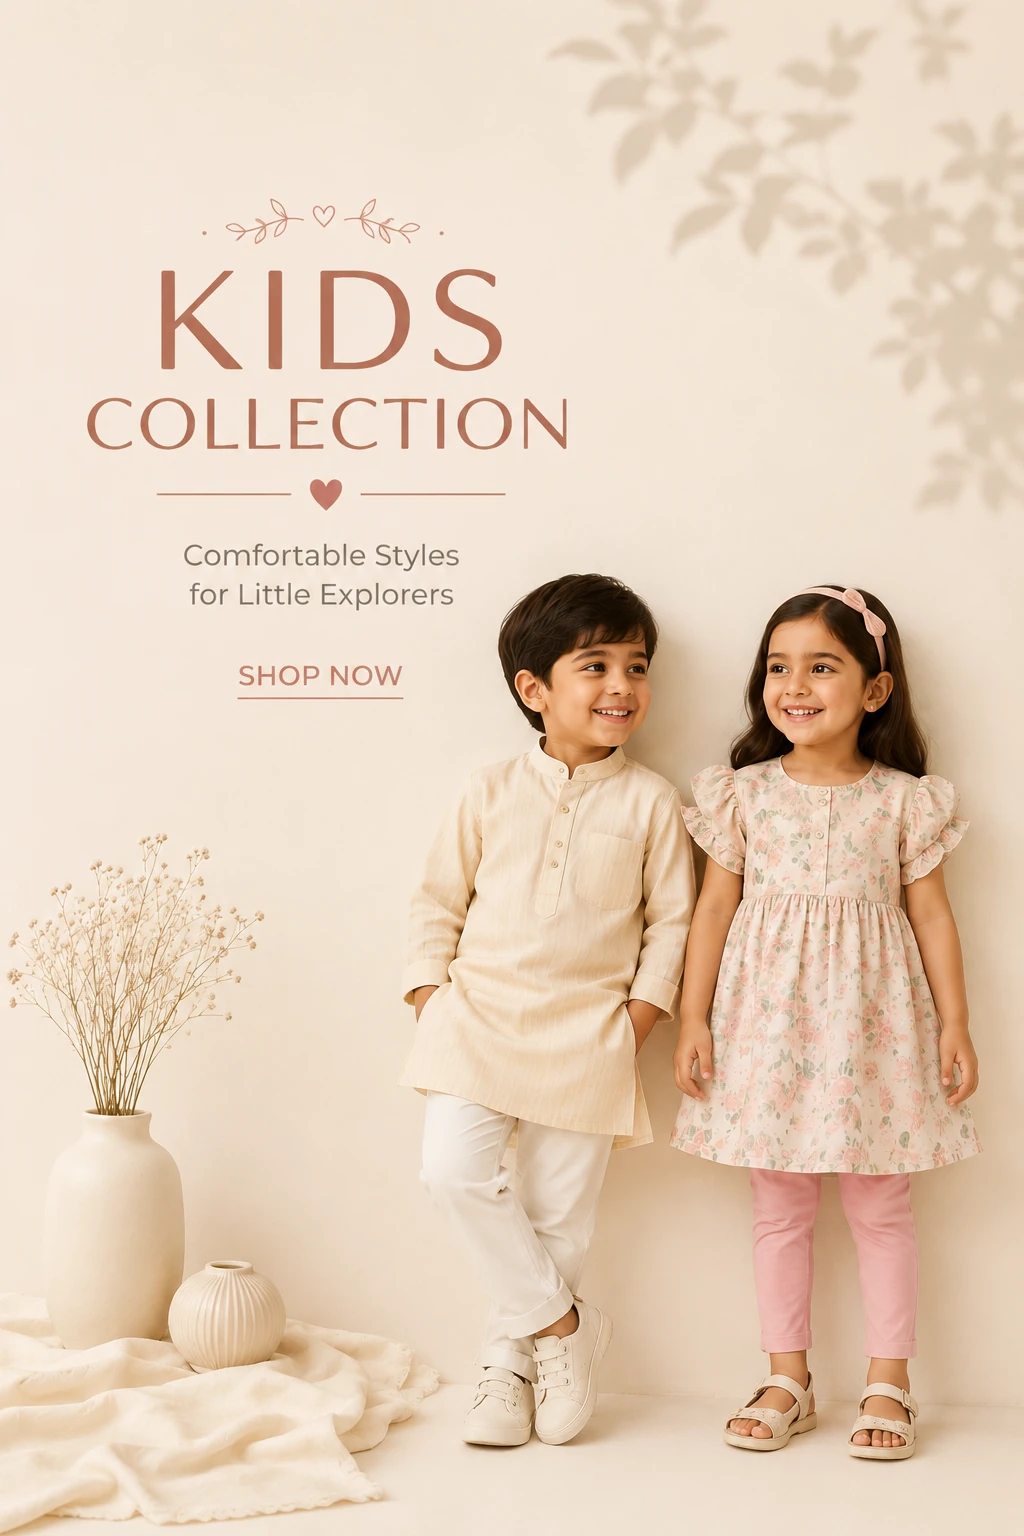
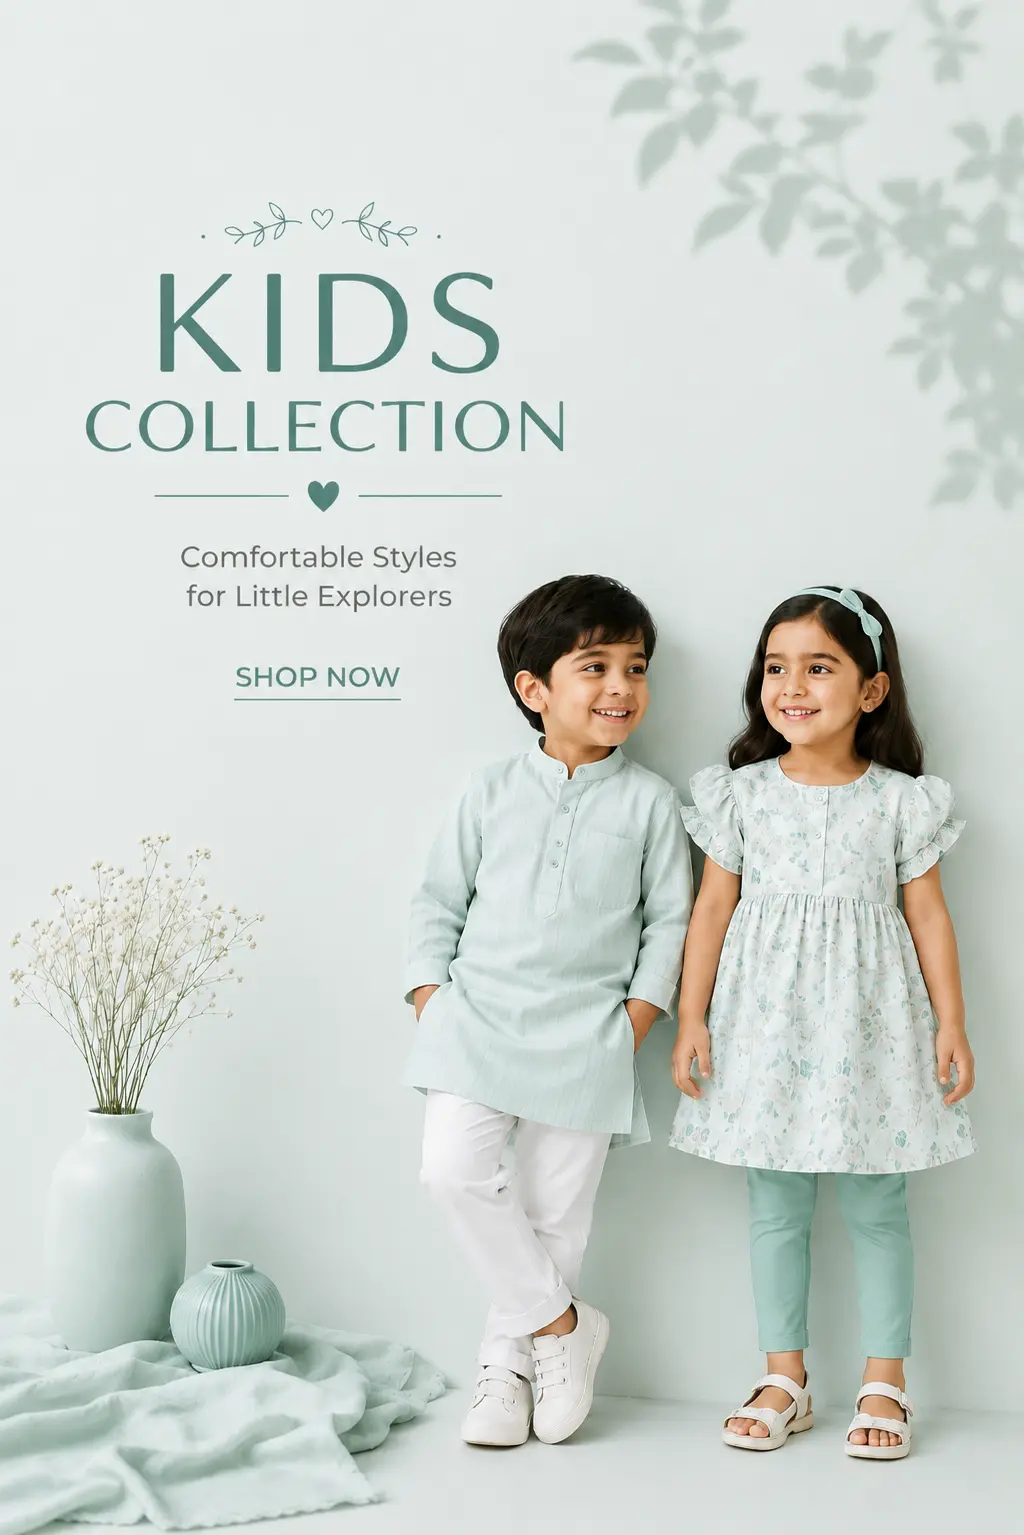
navbar color changed

diff --git a/css/style.css b/css/style.css
@@ -9,7 +9,7 @@
 @import url('https://fonts.googleapis.com/css2?family=Inter:wght@300;400;500;600;700&family=Montserrat:wght@100;200;300;400;500;600;700;800;900&family=Playfair+Display:ital,wght@0,400;0,500;0,600;0,700;1,400&display=swap');
 /* --- CSS variables --- */
 :root {
-  --color-primary: #8CBDBC;
+  --color-primary: #8cbdb6;
   --color-primary-hover: #6FAFAE;
   --color-secondary: #A9D6D5;
   --color-bg: #FCFEFE;
@@ -169,7 +169,7 @@ a:hover {
   box-shadow: 0 10px 20px rgba(0, 0, 0, 0.15);
 }
 .btn-view-all {
-  background-color: var(--color-heading);
+  background-color: var(--color-primary);
   color: var(--color-white) !important;
   border-radius: 8px;
   padding: 16px 40px;
@@ -230,21 +230,21 @@ body.announcement-hidden .announcement-bar {
   }
 }
 
-/* --- Always-White Fixed Navbar --- */
+/* --- Premium Branded Fixed Navbar --- */
 header {
   position: fixed;
   top: 40px; /* sits directly below the 40px announcement bar */
   left: 0;
   width: 100%;
   z-index: 1050;
-  background-color: #ffffff;
-  box-shadow: 0 1px 16px rgba(30, 41, 59, 0.06);
+  background-color: var(--color-primary);
+  box-shadow: 0 2px 12px rgba(140, 189, 188, 0.15);
   transition: box-shadow 0.3s ease, transform 0.45s cubic-bezier(0.4, 0, 0.2, 1);
   will-change: transform, box-shadow;
 }
 /* On scroll: compact navbar padding + stronger shadow only */
 header.scrolled {
-  box-shadow: var(--shadow-premium);
+  box-shadow: 0 8px 24px rgba(140, 189, 188, 0.2);
 }
 /* Moves up when announcement bar hides (first scroll > 50px) */
 body.announcement-hidden header {
@@ -274,7 +274,7 @@ header.scrolled .navbar {
   font-weight: 700;
   font-size: 1.8rem;
   letter-spacing: 1.5px;
-  color: var(--color-heading) !important;
+  color: var(--color-white) !important;
   display: flex;
   align-items: center;
   gap: 8px;
@@ -291,6 +291,33 @@ header.scrolled .navbar {
   color: var(--color-primary);
 }
 
+.navbar-logo-img {
+  height: 45px;
+  width: auto;
+  max-width: 180px;
+  object-fit: contain;
+  display: block;
+  transition: transform 0.3s ease;
+}
+
+.navbar-brand:hover .navbar-logo-img {
+  transform: scale(1.05);
+}
+
+@media (max-width: 991px) {
+  .navbar-logo-img {
+    height: 38px;
+    max-width: 140px;
+  }
+}
+
+@media (max-width: 576px) {
+  .navbar-logo-img {
+    height: 32px;
+    max-width: 120px;
+  }
+}
+
 .logo-dot {
   width: 12px;
   height: 12px;
@@ -303,7 +330,7 @@ header.scrolled .navbar {
   font-family: var(--font-body);
   font-weight: 500;
   font-size: 0.95rem;
-  color: var(--color-heading) !important;
+  color: var(--color-white) !important;
   padding: 8px 16px !important;
   position: relative;
   transition: var(--transition-fast);
@@ -315,7 +342,7 @@ header.scrolled .navbar {
   left: 16px;
   right: 16px;
   height: 2px;
-  background-color: var(--color-primary);
+  background-color: var(--color-white);
   transform: scaleX(0);
   transform-origin: right;
   transition: transform 0.3s ease;
@@ -488,7 +515,7 @@ header.scrolled .navbar {
   background: none;
   border: none;
   font-size: 1.25rem;
-  color: var(--color-heading);
+  color: var(--color-white);
   position: relative;
   padding: 6px;
   border-radius: 50%;
@@ -500,14 +527,14 @@ header.scrolled .navbar {
   transition: var(--transition-smooth);
 }
 .icon-btn:hover {
-  background-color: var(--color-bg-alt);
-  color: var(--color-primary);
+  background-color: rgba(255, 255, 255, 0.2);
+  color: var(--color-white);
 }
 .icon-badge {
   position: absolute;
   top: 2px;
   right: 2px;
-  background-color: var(--color-primary);
+  background-color: var(--color-sale-badge);
   color: var(--color-white);
   font-size: 0.68rem;
   font-family: var(--font-body);
@@ -518,7 +545,7 @@ header.scrolled .navbar {
   display: flex;
   align-items: center;
   justify-content: center;
-  border: 2px solid var(--color-bg);
+  border: 2px solid var(--color-primary);
 }
 
 /* Account Dropdown customization */
@@ -2812,7 +2839,7 @@ footer {
     border: none;
     padding: 0;
     font-size: 1.5rem;
-    color: var(--color-heading);
+    color: var(--color-button-text);
     width: 42px;
     height: 42px;
     display: flex;

diff --git a/index.html b/index.html
@@ -50,7 +50,7 @@
       <nav class="navbar navbar-expand-lg">
         <!-- Logo -->
         <a class="navbar-brand" href="#home" id="brandLogo">
-          COMFY CUTE 
+          <img src="assets/images/logo.jpeg" alt="COMFY CUTE Logo" class="navbar-logo-img">
         </a>
 
         <!-- Hamburger Toggler (Mobile) — plain JS toggle (no Bootstrap Collapse) so the
@@ -1023,8 +1023,8 @@
   <section class="section-padding" id="baby-collection">
     <div class="container">
       <div class="section-title-wrapper text-center">
-        <span class="section-subtitle">Baby Fashion</span>
-        <h2 class="section-title">Baby Collection</h2>
+        <span class="section-subtitle">Kids Fashion</span>
+        <h2 class="section-title">Kids Collection</h2>
       </div>
 
       <div class="baby-collection-grid">
